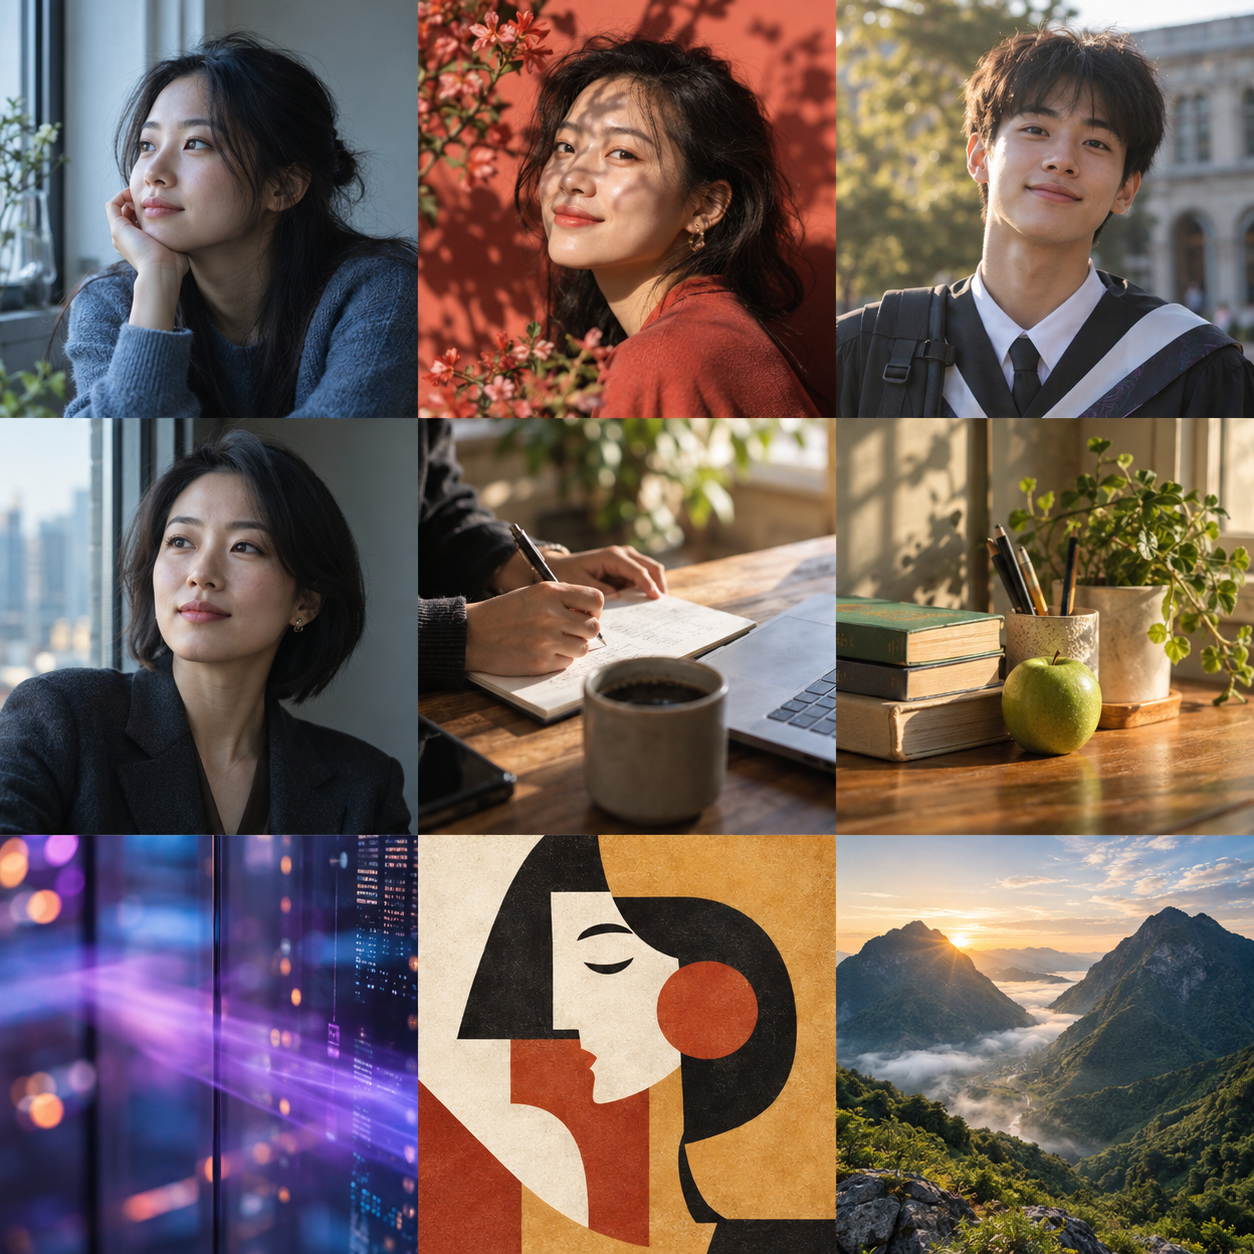
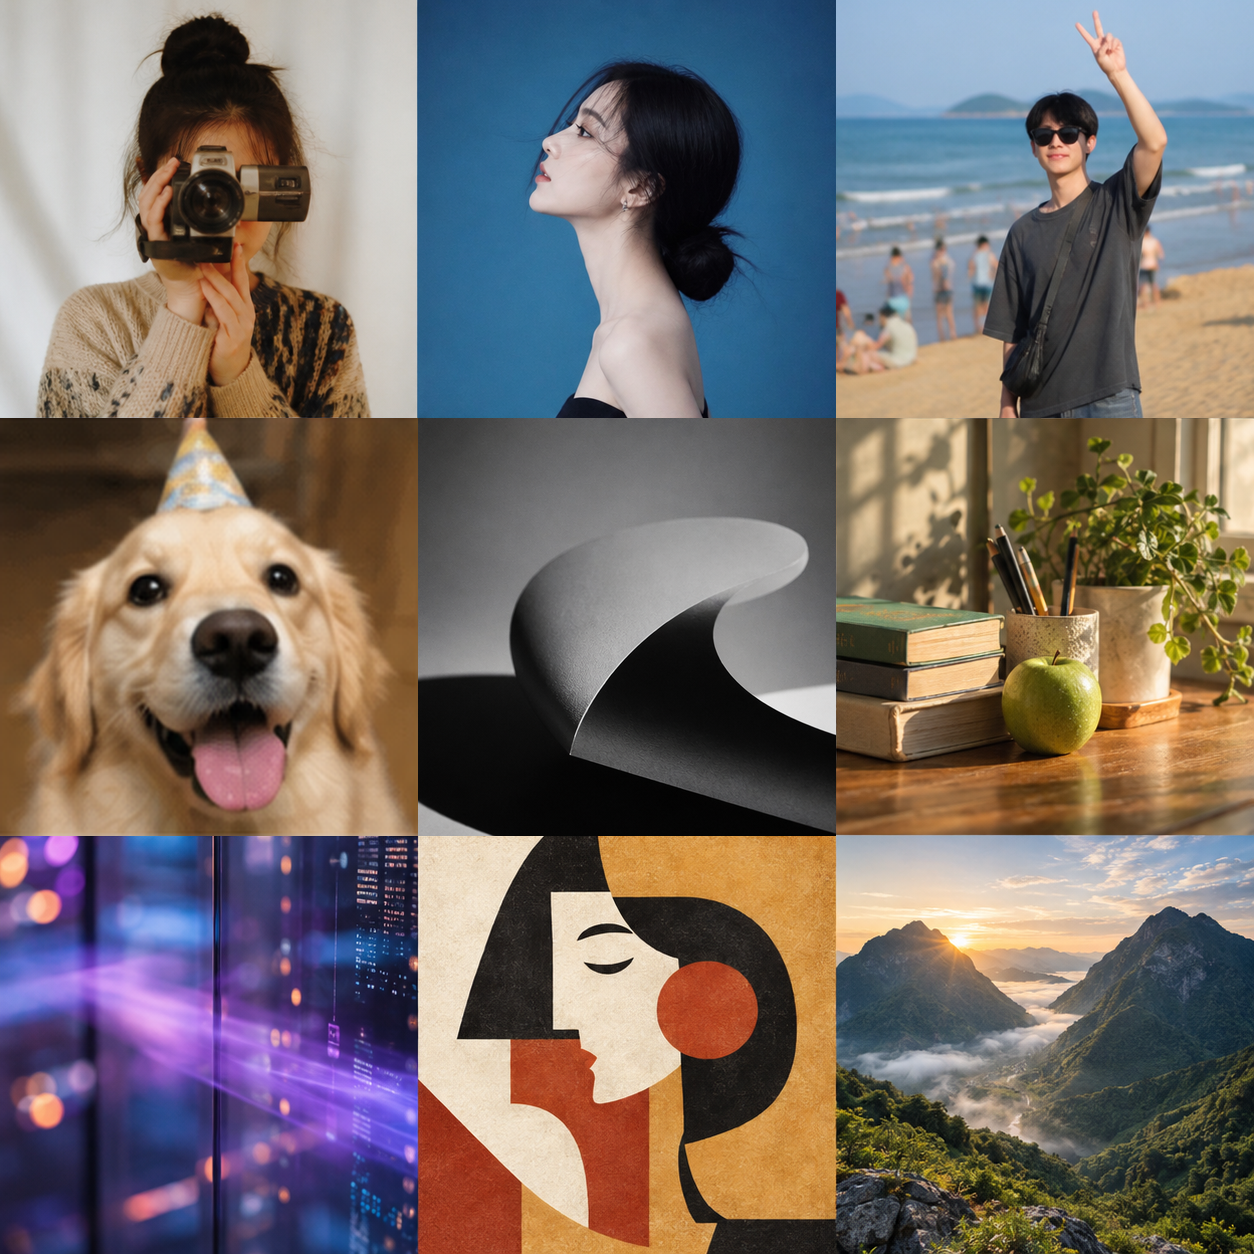
新的版本

diff --git a/src/frontend/styles/components/openlife-reference-home.css b/src/frontend/styles/components/openlife-reference-home.css
@@ -799,7 +799,7 @@ html[data-landing='true'] .journey-navbar .journey-nav-link.is-active::after {
   position: absolute;
   z-index: 0;
   right: 8%;
-  bottom: 22px;
+  bottom: 12px;
   left: 8%;
   height: 46px;
   border-radius: 50%;
@@ -811,7 +811,7 @@ html[data-landing='true'] .journey-navbar .journey-nav-link.is-active::after {
 
 .ol-report-page {
   position: absolute;
-  bottom: 48px;
+  bottom: 30px;
   left: 50%;
   display: block;
   width: min(53%, 372px);
@@ -958,7 +958,7 @@ html[data-landing='true'] .journey-navbar .journey-nav-link.is-active::after {
   flex: 0 0 42px;
   border: 2px solid rgba(255, 255, 255, 0.94);
   background-color: #f6f1e7;
-  background-image: url('/assets/openlife-journey/testimonial-avatars.webp?v=20260921');
+  background-image: url('/assets/openlife-journey/testimonial-avatars.webp?v=20260923');
   background-position: var(--avatar-position);
   background-size: 300% 300%;
   box-shadow: 0 4px 13px rgba(39, 57, 69, 0.13);
@@ -1575,7 +1575,7 @@ html[data-landing='true'] .journey-navbar .journey-nav-link.is-active::after {
   .ol-report .ol-report-preview-title { margin-bottom: 10px; font-size: clamp(18px, 5.5vw, 24px); letter-spacing: -0.045em; }
   .ol-report-preview { width: calc(100% + 24px); margin: 0 -12px; }
   .ol-report-fan { --report-left-x: -98px; --report-right-x: 98px; height: clamp(390px, 116vw, 470px); }
-  .ol-report-page { bottom: 38px; width: min(66%, 286px); border-radius: 3px; }
+  .ol-report-page { bottom: 20px; width: min(66%, 286px); border-radius: 3px; }
   .ol-report-preview figcaption { margin-top: 0; font-size: 10px; }
   .ol-review-stage { grid-template-columns: 1fr; }
   .ol-round-arrow { display: none; }

diff --git a/src/frontend/app/(main)/page.tsx b/src/frontend/app/(main)/page.tsx
@@ -382,7 +382,7 @@ export default function LandingPage() {
           reportFan.style.setProperty('--report-left-rotate', `${(-9.5 * reportProgress).toFixed(2)}deg`);
           reportFan.style.setProperty('--report-right-rotate', `${(9.5 * reportProgress).toFixed(2)}deg`);
           reportFan.style.setProperty('--report-center-y', `${(-12 * reportProgress).toFixed(1)}px`);
-          reportFan.style.setProperty('--report-side-y', `${(10 * reportProgress).toFixed(1)}px`);
+          reportFan.style.setProperty('--report-side-y', `${(-6 * reportProgress).toFixed(1)}px`);
         }
 
         if (!hero || !plant) {

diff --git a/wiki/开发文档/claude-completed-0923-首页头像替换与报告扇形上移.md b/wiki/开发文档/claude-completed-0923-首页头像替换与报告扇形上移.md
@@ -1,0 +1,40 @@
+# 0923 完成：首页用户头像替换 + 报告扇形构图上移
+
+## 一、用户评价头像替换（5 人）
+
+新素材位于 `wiki/开发文档/0923/`，按名字替换进 3×3 雪碧图 `testimonial-avatars.png`（1254×1254，格 418×418）：
+
+| 姓名 | 格位 (background-position) | 处理方式 |
+|---|---|---|
+| 小林 | 0% 0% | 整图放入（头肩照居中） |
+| Maggie | 50% 0% | 整图放入（深蓝影棚半身侧脸） |
+| 阿文 | 100% 0% | **最小裁切成正方形**（506×395 → 395×395 居中横裁，不放大） |
+| 晓敏 | 0% 50% | 整图放入（185×185 放大到 418，webp 端又缩回 168，几乎无损） |
+| 老K | 50% 50% | 整图放入（黑白抽象纸卷艺术照——已与需求方确认故意为之） |
+
+其余 4 人（苏苏/浩然/小雨/阿杰）未动。重新导出：
+- `public/assets/openlife-journey/testimonial-avatars.png`（源图）
+- `public/assets/openlife-journey/testimonial-avatars.webp`（504×504, q85, 41KB）
+- CSS 缓存参数 `?v=20260921` → `?v=20260923`（openlife-reference-home.css）
+
+## 二、报告扇形整体上移 ~35px
+
+问题：收拢成扇形最终态时侧页底边下沉（页底 48px + side-y +10px + 旋转轴 94% 外扩），视觉中心太靠下。
+
+改动：
+1. `openlife-reference-home.css` `.ol-report-page` `bottom: 48px → 30px`
+2. `openlife-reference-home.css` `.ol-report-fan::after`（地面阴影）`bottom: 22px → 12px` 跟随上移
+3. `app/(main)/page.tsx` `--report-side-y` 最终值 `+10px → -6px`（收拢时侧页不再下沉、微升）
+4. **移动端补丁**：≤720px 断点里 `.ol-report-page { bottom: 38px }` 覆盖了桌面值（首测移动端未生效的原因），改为 `20px`
+
+## 验证
+
+- 雪碧图 9 格逐格视觉复核：新 5 格就位、旧 4 格未动
+- 桌面 1440px progress=1 截图：顶距 ~110px / 底距 ~70px，视觉重心回正且保留扇形沉稳感
+- 移动 390px progress=1 截图：垂直居中确认，左右页边距 ~10px 无裁切
+- `next lint` 通过（仅页面既有 `<img>` 警告）
+
+## 备注
+
+- 报告预览三张 webp 素材本身偏模糊，需求方说明后续会更换素材，本次未动
+- 头像裁剪策略经确认：方形照片整图放入"尽可能呈现"；阿文按"自动剪裁最小比例成为正方形"处理
